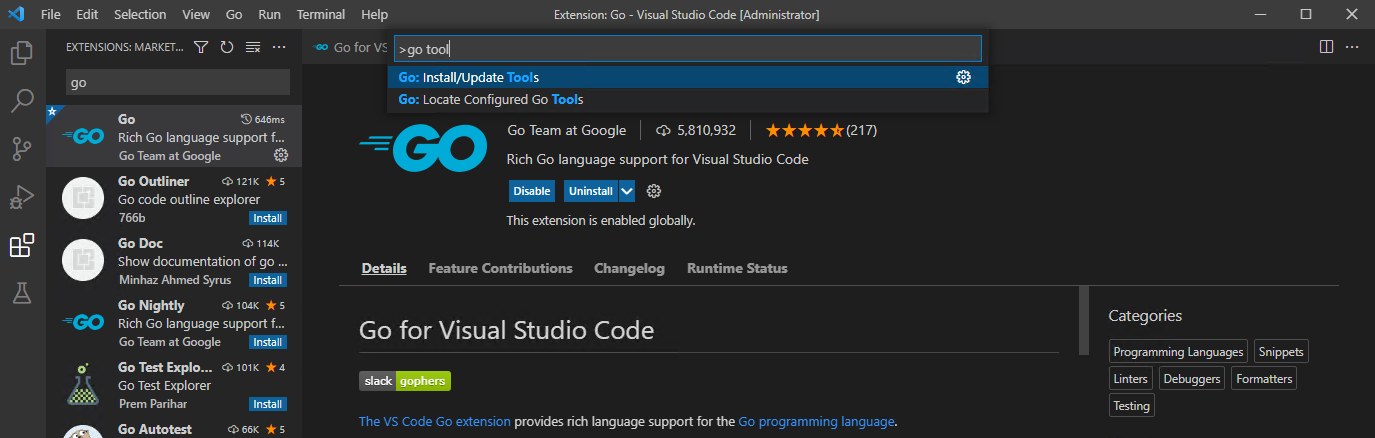
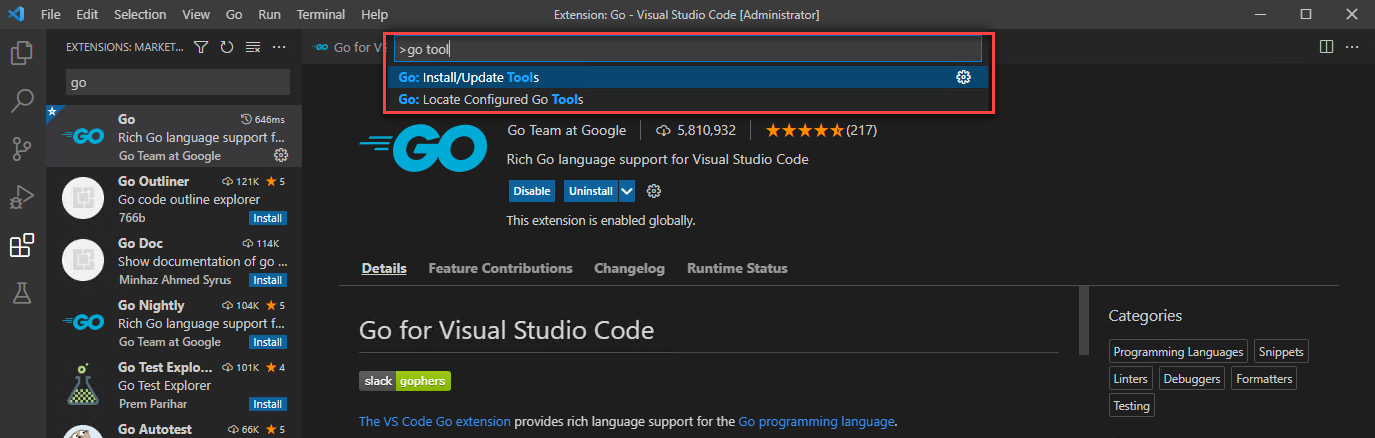
replaced order list with lightbox table in update tools section

Changed region(s): [[0.2749, 0.2374, 0.7331, 0.2671], [0.2749, 0.0594, 0.7331, 0.089]]

diff --git a/articles/go/configure-vscode-for-go-development.md b/articles/go/configure-vscode-for-go-development.md
@@ -27,14 +27,19 @@ In a web browser:
 
 ## 2. Install the Go extension
 
-In Visual Studio Code:
+| Instructions    | Screenshot |
+|:----------------|-----------:|
+| In Visual Studio Code, bring up the Extensions view by clicking on the Extensions icon in the Activity Bar. Or use keyboard shortcut (Ctrl+Shift+X). | :::image type="content" source="./media/configure-vscode-for-go-development/search-extensions-240px.png" alt-text="A screenshot showing how search for the Go extension." lightbox="./media/configure-vscode-for-go-development/search-extensions.png"::: |
+| Search for the Go extension, then click install. | :::image type="content" source="./media/configure-vscode-for-go-development/install-go-extension-240px.png" alt-text="A screenshot showing how to use the search box in the top tool bar to find App Services in Azure." lightbox="./media/configure-vscode-for-go-development/install-go-extension.png"::: |
+
+## 3. Update the Go tools
 
 | Instructions    | Screenshot |
 |:----------------|-----------:|
-| Bring up the Extensions view by clicking on the Extensions icon in the Activity Bar. Or use keyboard shortcut (Ctrl+Shift+X). | :::image type="content" source="./media/configure-vscode-for-go-development/search-extensions-240px.png" alt-text="A screenshot showing how search for the Go extension." lightbox="./media/configure-vscode-for-go-development/search-extensions.png"::: |
-| Search for the Go extension, then click install. | :::image type="content" source="./media/configure-vscode-for-go-development/ install-go-extension-240px.png" alt-text="A screenshot showing how to use the search box in the top tool bar to find App Services in Azure." lightbox="./media/configure-vscode-for-go-development/install-go-extension.png"::: |
+| In Visual Studio Code, open the command pallet by going to *Help* > *Show All Commands*. Or use the keyboard shortcut (Ctrl+Shift+P) | :::image type="content" source="./media/configure-vscode-for-go-development/search-extensions-240px.png" alt-text="A screenshot showing how search for the Go extension." lightbox="./media/configure-vscode-for-go-development/search-extensions.png"::: |
+| Search for `Go: Install/Update tools` then run the command from the pallet | :::image type="content" source="./media/configure-vscode-for-go-development/install-go-tools-240px.png" alt-text="A screenshot showing how to use the search box in the top tool bar to find App Services in Azure." lightbox="./media/configure-vscode-for-go-development/install-go-tools.png"::: |
+| When prompted, select all the available Go tools then click OK.  | :::image type="content" source="./media/configure-vscode-for-go-development/select-all-go-tools-240px.png" alt-text="A screenshot showing how to use the search box in the top tool bar to find App Services in Azure." lightbox="./media/configure-vscode-for-go-development/select-all-go-tools.png"::: |
 
-## 3. Update the Go tools
 
 In Visual Studio Code:
 
